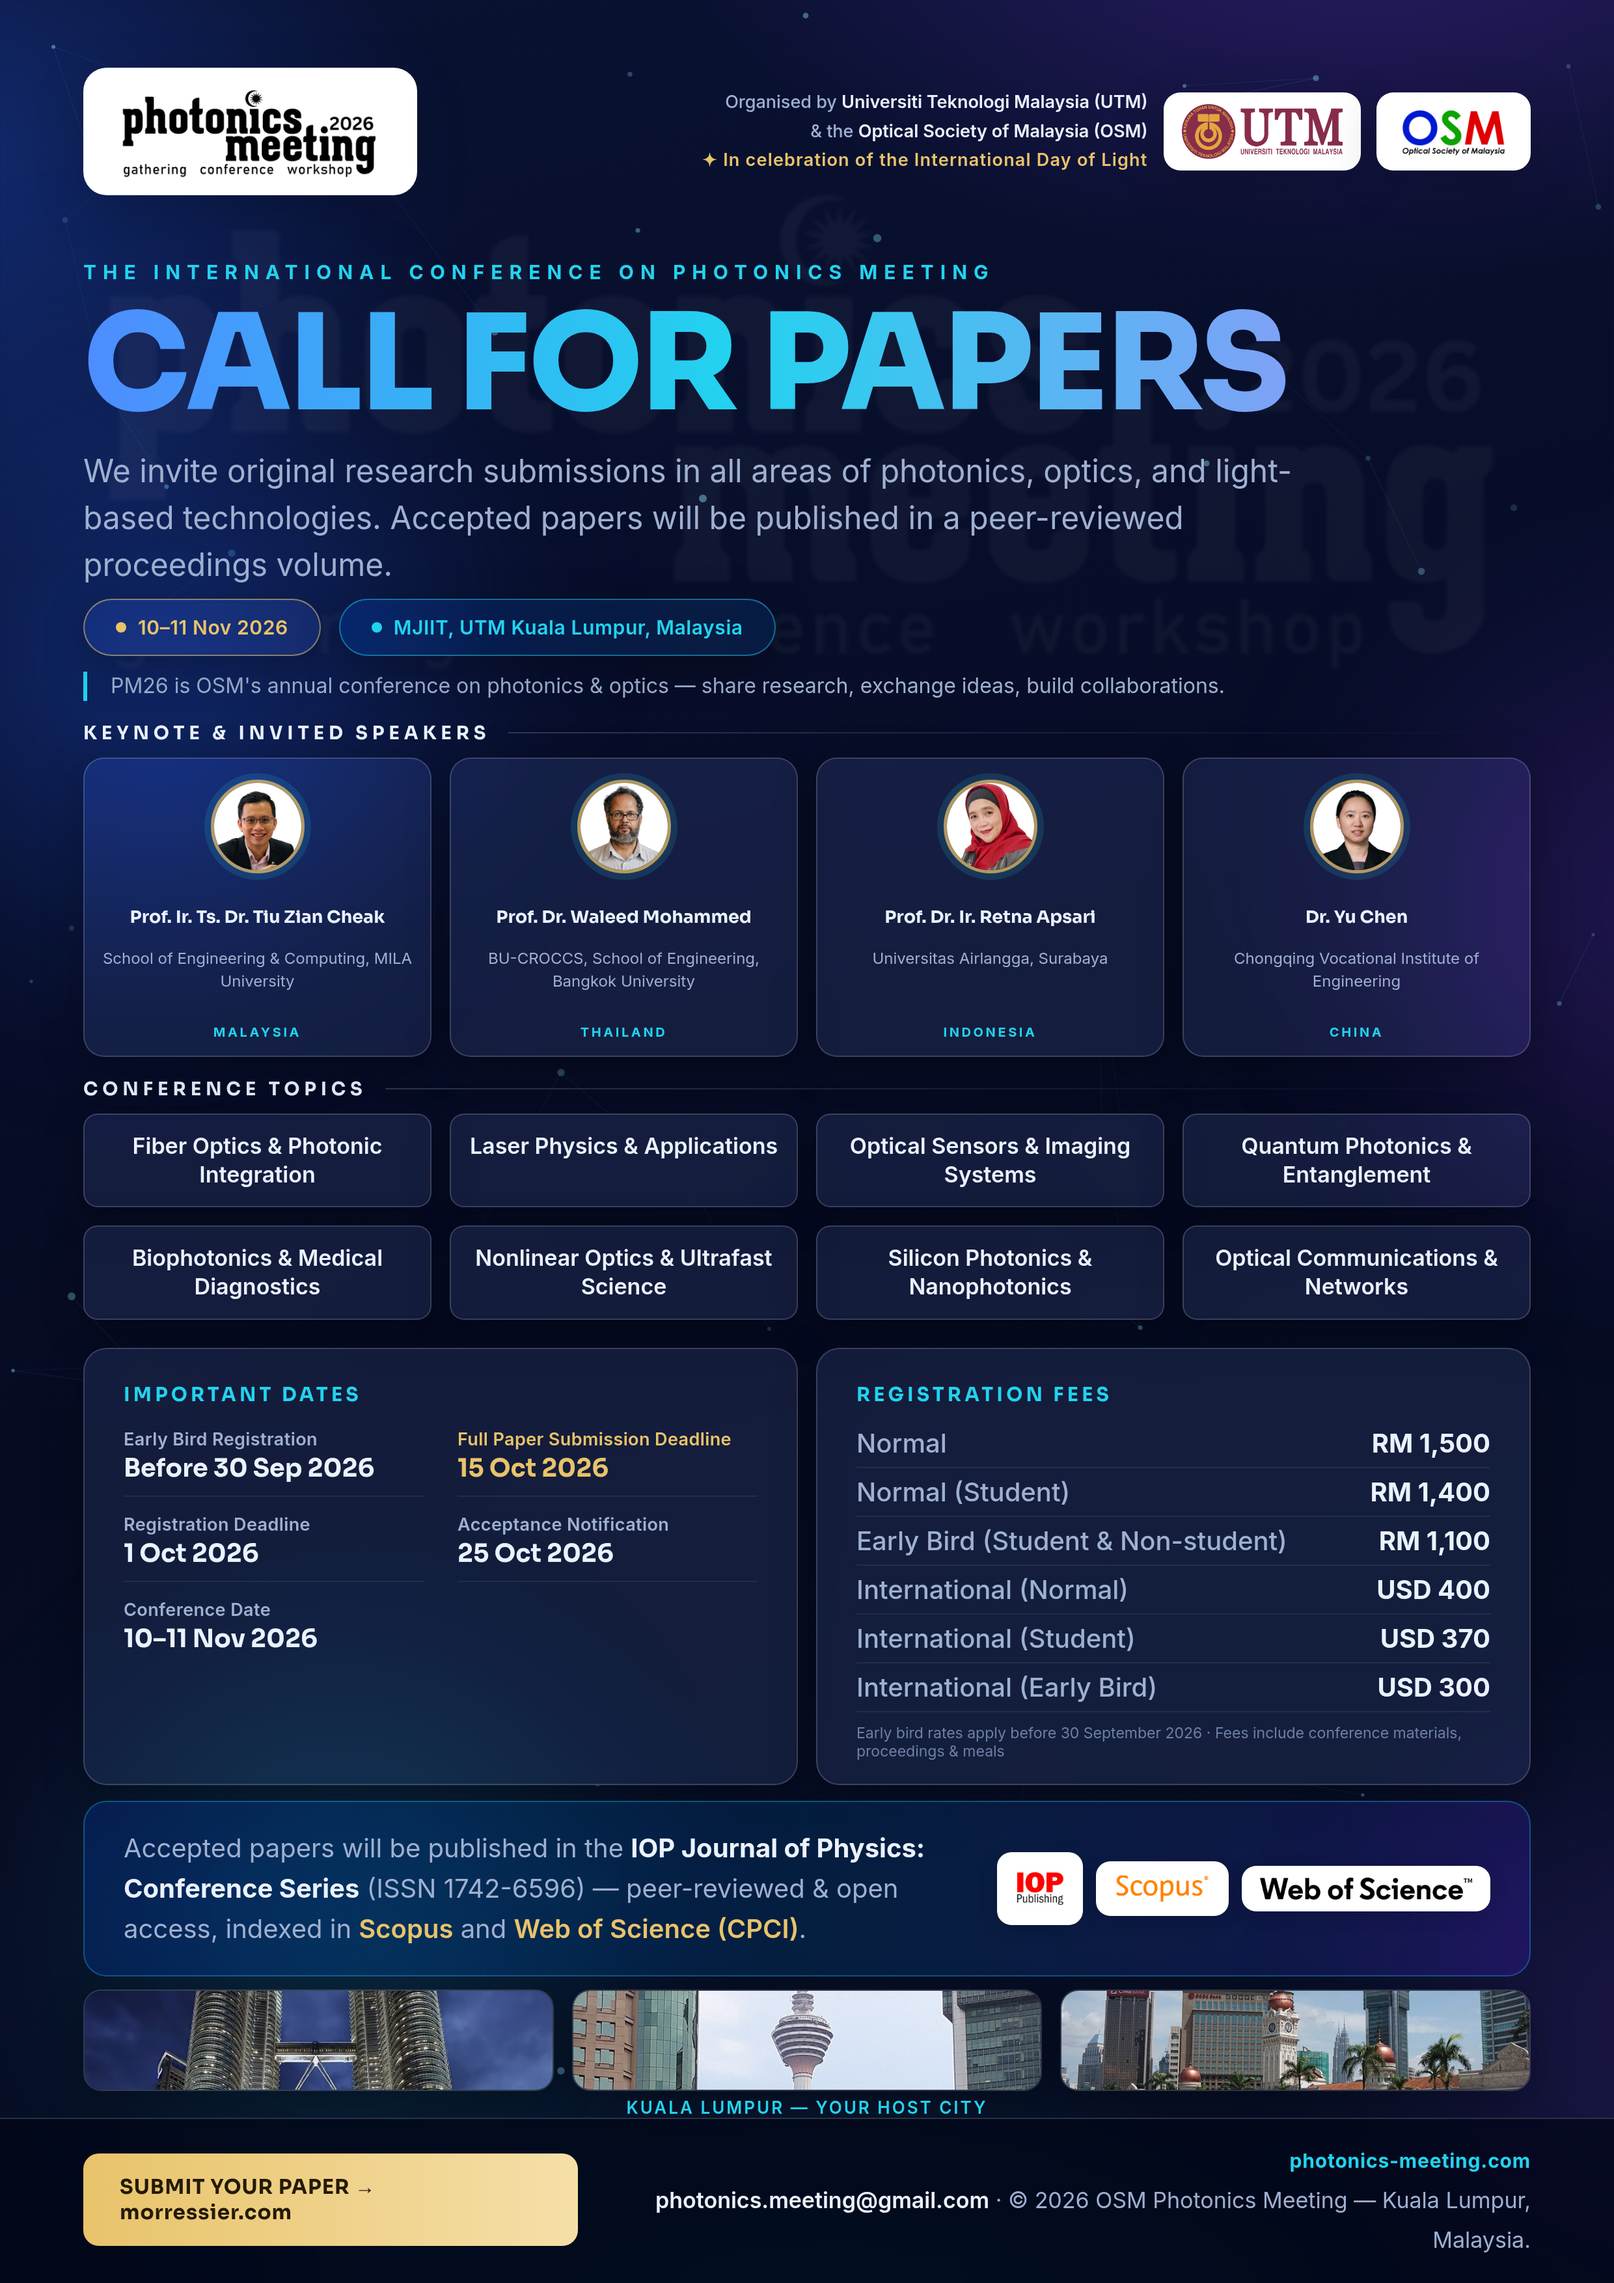
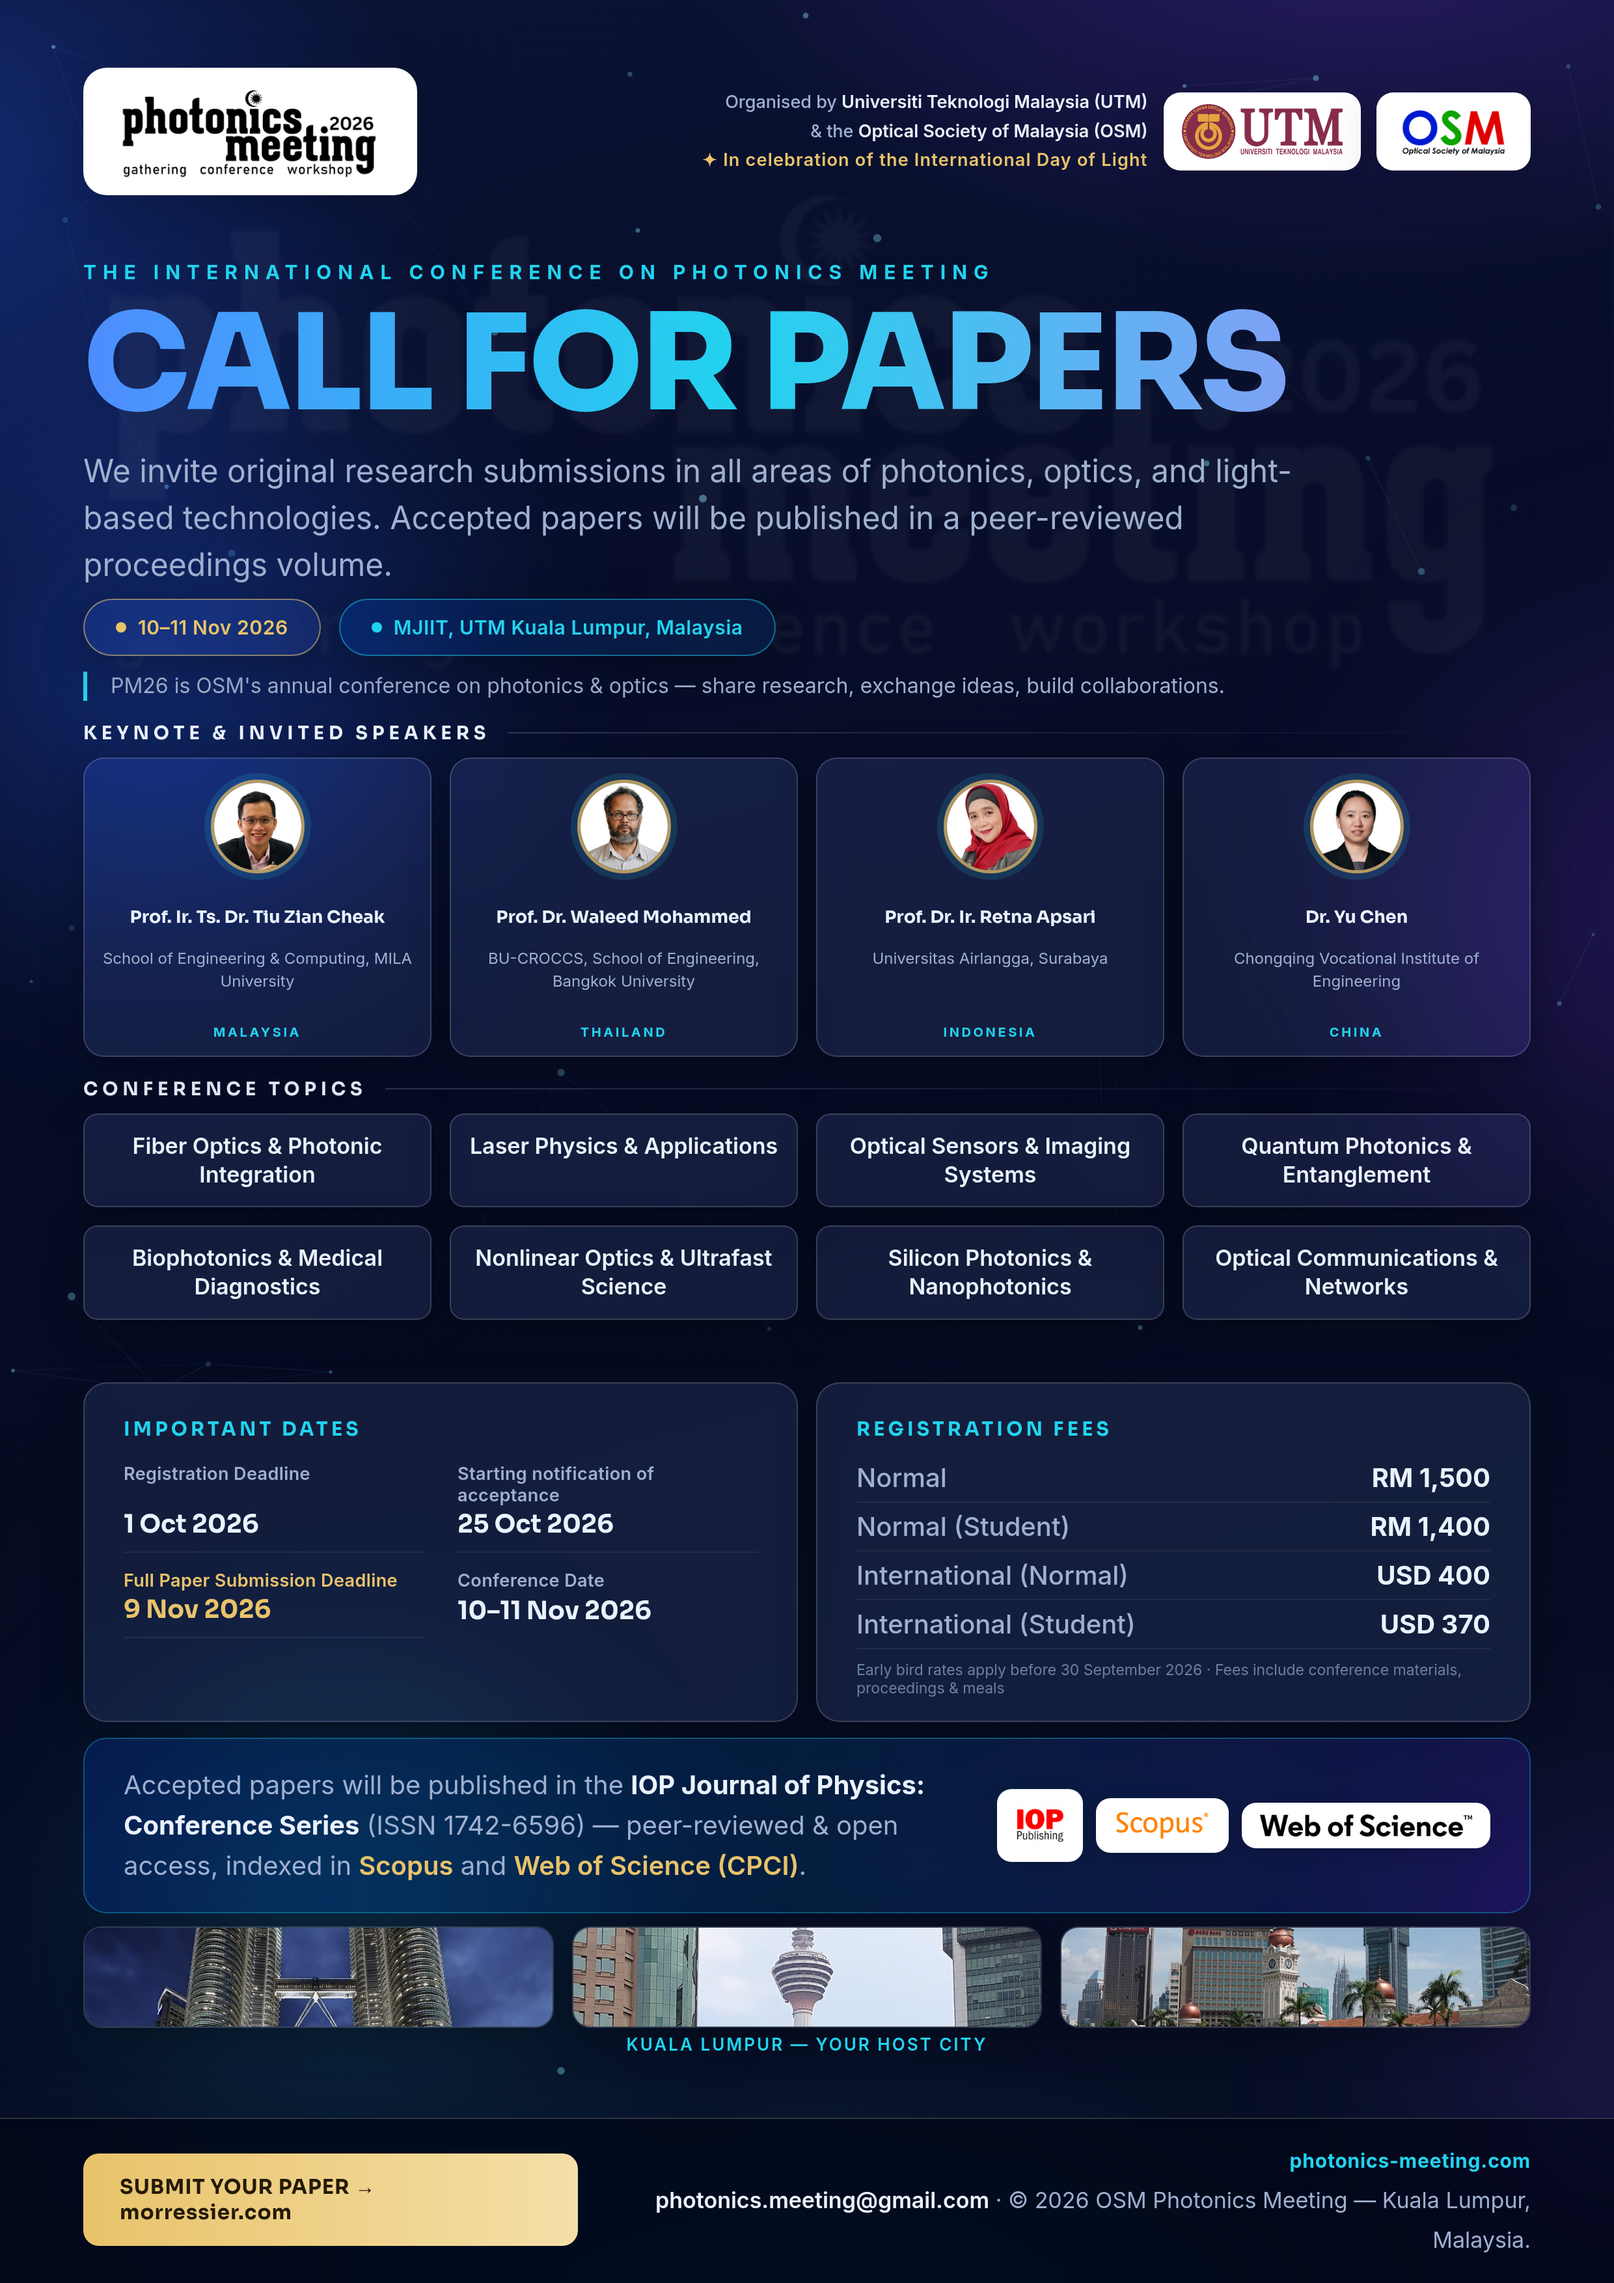
posters: auto-rebuild from website data [skip ci]

Changed region(s): [[0.031, 0.5904, 0.9625, 0.9322], [0.7452, 0.6525, 0.7762, 0.6836]]

diff --git a/poster/pm26-cfp-poster-bright.html b/poster/pm26-cfp-poster-bright.html
@@ -171,11 +171,11 @@
   <div class="cols">
     <div class="panel">
       <h3>IMPORTANT DATES</h3>
-      <div class="date-grid"><div class="row"><span class="row-l">Early Bird Registration</span><span class="row-r">Before 30 Sep 2026</span></div><div class="row hot"><span class="row-l">Full Paper Submission Deadline</span><span class="row-r">15 Oct 2026</span></div><div class="row"><span class="row-l">Registration Deadline</span><span class="row-r">1 Oct 2026</span></div><div class="row"><span class="row-l">Acceptance Notification</span><span class="row-r">25 Oct 2026</span></div><div class="row"><span class="row-l">Conference Date</span><span class="row-r">10–11 Nov 2026</span></div></div>
+      <div class="date-grid"><div class="row"><span class="row-l">Registration Deadline</span><span class="row-r">1 Oct 2026</span></div><div class="row"><span class="row-l">Starting notification of acceptance</span><span class="row-r">25 Oct 2026</span></div><div class="row hot"><span class="row-l">Full Paper Submission Deadline</span><span class="row-r">9 Nov 2026</span></div><div class="row"><span class="row-l">Conference Date</span><span class="row-r">10–11 Nov 2026</span></div></div>
     </div>
     <div class="panel">
       <h3>REGISTRATION FEES</h3>
-      <div class="row"><span class="row-l">Normal</span><span class="row-r">RM 1,500</span></div><div class="row"><span class="row-l">Normal (Student)</span><span class="row-r">RM 1,400</span></div><div class="row"><span class="row-l">Early Bird (Student &amp; Non-student)</span><span class="row-r">RM 1,100</span></div><div class="row"><span class="row-l">International (Normal)</span><span class="row-r">USD 400</span></div><div class="row"><span class="row-l">International (Student)</span><span class="row-r">USD 370</span></div><div class="row"><span class="row-l">International (Early Bird)</span><span class="row-r">USD 300</span></div>
+      <div class="row"><span class="row-l">Normal</span><span class="row-r">RM 1,500</span></div><div class="row"><span class="row-l">Normal (Student)</span><span class="row-r">RM 1,400</span></div><div class="row"><span class="row-l">International (Normal)</span><span class="row-r">USD 400</span></div><div class="row"><span class="row-l">International (Student)</span><span class="row-r">USD 370</span></div>
       <div class="fee-note">Early bird rates apply before 30 September 2026 · Fees include conference materials, proceedings &amp; meals</div>
     </div>
   </div>

diff --git a/poster/pm26-cfp-poster.html b/poster/pm26-cfp-poster.html
@@ -171,11 +171,11 @@
   <div class="cols">
     <div class="panel">
       <h3>IMPORTANT DATES</h3>
-      <div class="date-grid"><div class="row"><span class="row-l">Early Bird Registration</span><span class="row-r">Before 30 Sep 2026</span></div><div class="row hot"><span class="row-l">Full Paper Submission Deadline</span><span class="row-r">15 Oct 2026</span></div><div class="row"><span class="row-l">Registration Deadline</span><span class="row-r">1 Oct 2026</span></div><div class="row"><span class="row-l">Acceptance Notification</span><span class="row-r">25 Oct 2026</span></div><div class="row"><span class="row-l">Conference Date</span><span class="row-r">10–11 Nov 2026</span></div></div>
+      <div class="date-grid"><div class="row"><span class="row-l">Registration Deadline</span><span class="row-r">1 Oct 2026</span></div><div class="row"><span class="row-l">Starting notification of acceptance</span><span class="row-r">25 Oct 2026</span></div><div class="row hot"><span class="row-l">Full Paper Submission Deadline</span><span class="row-r">9 Nov 2026</span></div><div class="row"><span class="row-l">Conference Date</span><span class="row-r">10–11 Nov 2026</span></div></div>
     </div>
     <div class="panel">
       <h3>REGISTRATION FEES</h3>
-      <div class="row"><span class="row-l">Normal</span><span class="row-r">RM 1,500</span></div><div class="row"><span class="row-l">Normal (Student)</span><span class="row-r">RM 1,400</span></div><div class="row"><span class="row-l">Early Bird (Student &amp; Non-student)</span><span class="row-r">RM 1,100</span></div><div class="row"><span class="row-l">International (Normal)</span><span class="row-r">USD 400</span></div><div class="row"><span class="row-l">International (Student)</span><span class="row-r">USD 370</span></div><div class="row"><span class="row-l">International (Early Bird)</span><span class="row-r">USD 300</span></div>
+      <div class="row"><span class="row-l">Normal</span><span class="row-r">RM 1,500</span></div><div class="row"><span class="row-l">Normal (Student)</span><span class="row-r">RM 1,400</span></div><div class="row"><span class="row-l">International (Normal)</span><span class="row-r">USD 400</span></div><div class="row"><span class="row-l">International (Student)</span><span class="row-r">USD 370</span></div>
       <div class="fee-note">Early bird rates apply before 30 September 2026 · Fees include conference materials, proceedings &amp; meals</div>
     </div>
   </div>
